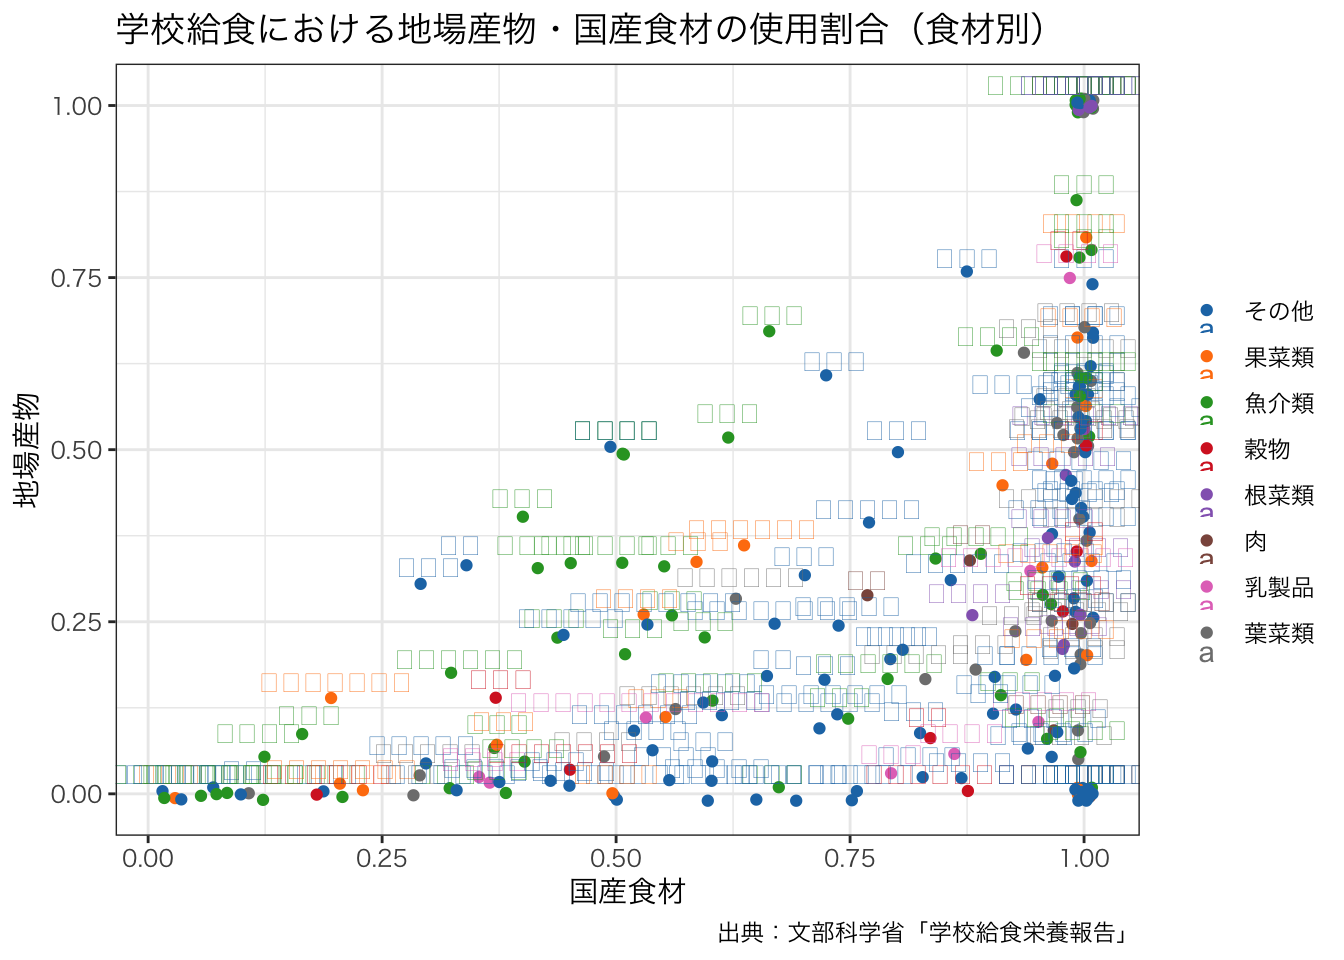
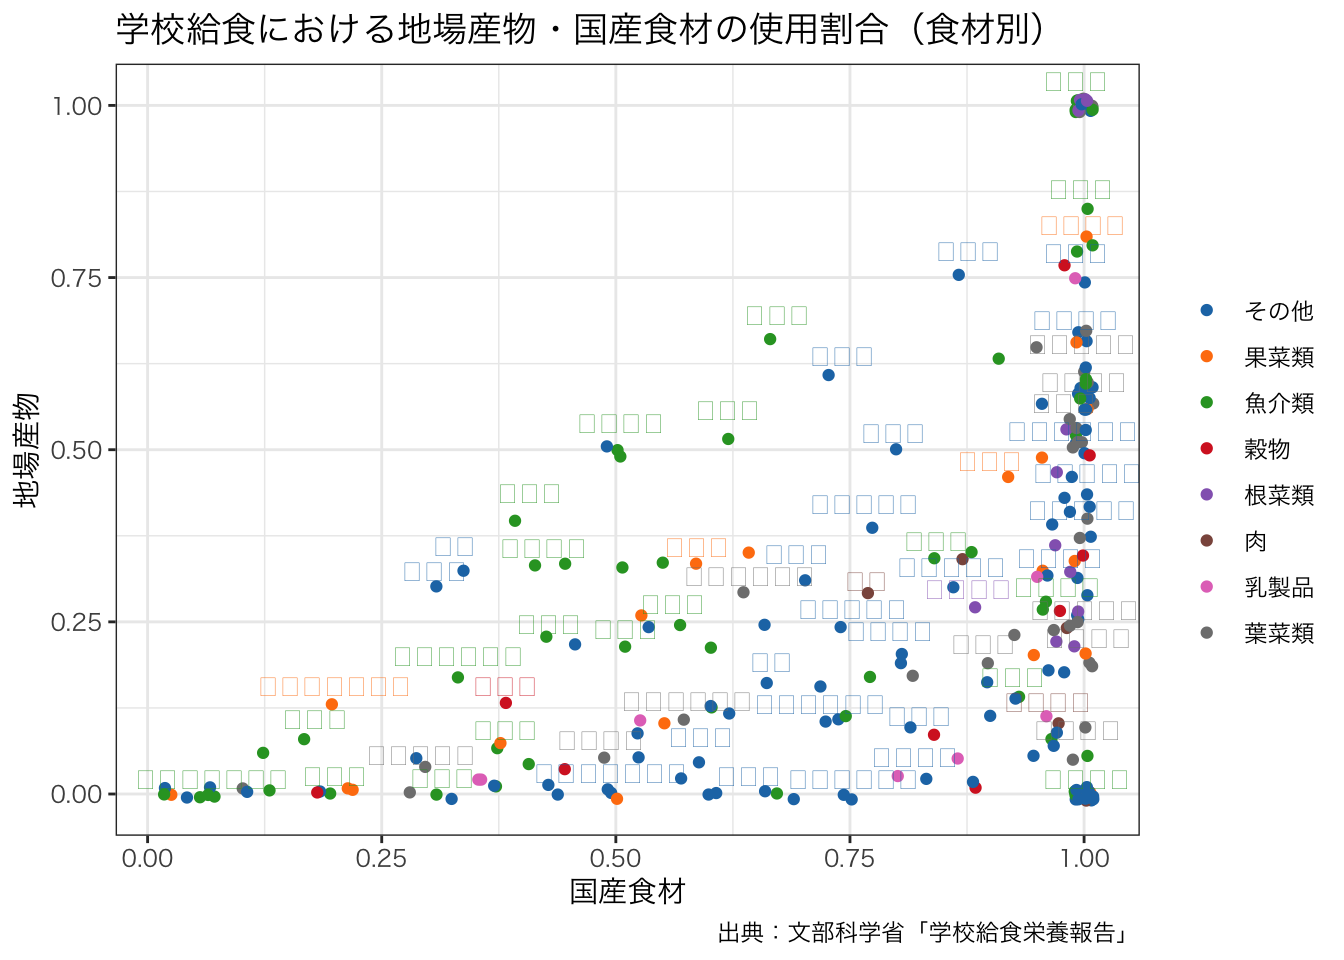
commit

diff --git a/docs/kyushoku.html b/docs/kyushoku.html
@@ -253,7 +253,7 @@ $.names
 <div class="cell">
 <div class="sourceCode cell-code" id="cb5"><pre class="sourceCode r code-with-copy"><code class="sourceCode r"><span id="cb5-1"><a href="#cb5-1" aria-hidden="true" tabindex="-1"></a>g <span class="ot">&lt;-</span> <span class="fu">ggplot</span>(df_wide, <span class="fu">aes</span>(<span class="at">x =</span> 国産食材, <span class="at">y =</span> 地場産物, <span class="at">label =</span> 食材別, <span class="at">group =</span> 分類, <span class="at">colour =</span> 分類)) <span class="sc">+</span></span>
 <span id="cb5-2"><a href="#cb5-2" aria-hidden="true" tabindex="-1"></a>  <span class="fu">geom_point</span>(<span class="at">position =</span> <span class="fu">position_jitter</span>(<span class="at">width =</span> <span class="fl">0.01</span>, <span class="at">height =</span> <span class="fl">0.01</span>)) <span class="sc">+</span></span>
-<span id="cb5-3"><a href="#cb5-3" aria-hidden="true" tabindex="-1"></a>  <span class="fu">geom_text</span>(<span class="at">vjust =</span> <span class="sc">-</span><span class="fl">0.5</span>, <span class="at">hjust =</span> <span class="fl">0.5</span>) <span class="sc">+</span></span>
+<span id="cb5-3"><a href="#cb5-3" aria-hidden="true" tabindex="-1"></a>  <span class="fu">geom_text</span>(<span class="at">vjust =</span> <span class="sc">-</span><span class="fl">0.5</span>, <span class="at">hjust =</span> <span class="fl">0.5</span>, <span class="at">show.legend =</span> <span class="cn">FALSE</span>, <span class="at">position =</span> <span class="fu">position_jitter</span>(<span class="at">width =</span> <span class="fl">0.01</span>, <span class="at">height =</span> <span class="fl">0.01</span>), <span class="at">check_overlap =</span> <span class="cn">TRUE</span>) <span class="sc">+</span></span>
 <span id="cb5-4"><a href="#cb5-4" aria-hidden="true" tabindex="-1"></a>  <span class="fu">labs</span>(</span>
 <span id="cb5-5"><a href="#cb5-5" aria-hidden="true" tabindex="-1"></a>    <span class="at">title =</span> <span class="st">"学校給食における地場産物・国産食材の使用割合（食材別）"</span>,</span>
 <span id="cb5-6"><a href="#cb5-6" aria-hidden="true" tabindex="-1"></a>    <span class="at">color =</span> <span class="st">""</span>,</span>
@@ -310,7 +310,7 @@ $.names
 </div>
 <div class="sourceCode cell-code" id="cb11"><pre class="sourceCode r code-with-copy"><code class="sourceCode r"><span id="cb11-1"><a href="#cb11-1" aria-hidden="true" tabindex="-1"></a>g <span class="ot">&lt;-</span> <span class="fu">ggplot</span>(df_wide <span class="sc">|&gt;</span> <span class="fu">filter</span>(国産食材 <span class="sc">&lt;</span> <span class="fl">0.25</span>), <span class="fu">aes</span>(<span class="at">x =</span> 国産食材, <span class="at">y =</span> 地場産物, <span class="at">label =</span> 食材別, <span class="at">group =</span> 分類, <span class="at">colour =</span> 分類)) <span class="sc">+</span></span>
 <span id="cb11-2"><a href="#cb11-2" aria-hidden="true" tabindex="-1"></a>  <span class="fu">geom_point</span>(<span class="at">position =</span> <span class="fu">position_jitter</span>(<span class="at">width =</span> <span class="fl">0.01</span>, <span class="at">height =</span> <span class="fl">0.01</span>)) <span class="sc">+</span></span>
-<span id="cb11-3"><a href="#cb11-3" aria-hidden="true" tabindex="-1"></a>  <span class="fu">geom_text</span>(<span class="at">vjust =</span> <span class="sc">-</span><span class="fl">0.5</span>, <span class="at">hjust =</span> <span class="fl">0.5</span>) <span class="sc">+</span></span>
+<span id="cb11-3"><a href="#cb11-3" aria-hidden="true" tabindex="-1"></a>  <span class="fu">geom_text</span>(<span class="at">vjust =</span> <span class="sc">-</span><span class="fl">0.5</span>, <span class="at">hjust =</span> <span class="fl">0.5</span>, <span class="at">show.legend =</span> <span class="cn">FALSE</span>, <span class="at">position =</span> <span class="fu">position_jitter</span>(<span class="at">width =</span> <span class="fl">0.01</span>, <span class="at">height =</span> <span class="fl">0.01</span>), <span class="at">check_overlap =</span> <span class="cn">TRUE</span>) <span class="sc">+</span></span>
 <span id="cb11-4"><a href="#cb11-4" aria-hidden="true" tabindex="-1"></a>  <span class="fu">labs</span>(</span>
 <span id="cb11-5"><a href="#cb11-5" aria-hidden="true" tabindex="-1"></a>    <span class="at">title =</span> <span class="st">"学校給食における地場産物・国産食材の使用割合（食材別）"</span>,</span>
 <span id="cb11-6"><a href="#cb11-6" aria-hidden="true" tabindex="-1"></a>    <span class="at">subtitle =</span> <span class="st">"輸入に依存している食材"</span>,</span>
@@ -419,7 +419,7 @@ $.names
 </div>
 <div class="sourceCode cell-code" id="cb17"><pre class="sourceCode r code-with-copy"><code class="sourceCode r"><span id="cb17-1"><a href="#cb17-1" aria-hidden="true" tabindex="-1"></a>g <span class="ot">&lt;-</span> <span class="fu">ggplot</span>(df_wide <span class="sc">|&gt;</span> <span class="fu">filter</span>(国産食材 <span class="sc">&gt;</span> <span class="fl">0.75</span> <span class="sc">&amp;</span> 地場産物<span class="sc">&lt;</span> <span class="fl">0.25</span>), <span class="fu">aes</span>(<span class="at">x =</span> 国産食材, <span class="at">y =</span> 地場産物, <span class="at">label =</span> 食材別, <span class="at">group =</span> 分類, <span class="at">colour =</span> 分類)) <span class="sc">+</span></span>
 <span id="cb17-2"><a href="#cb17-2" aria-hidden="true" tabindex="-1"></a>  <span class="fu">geom_point</span>(<span class="at">position =</span> <span class="fu">position_jitter</span>(<span class="at">width =</span> <span class="fl">0.01</span>, <span class="at">height =</span> <span class="fl">0.01</span>)) <span class="sc">+</span></span>
-<span id="cb17-3"><a href="#cb17-3" aria-hidden="true" tabindex="-1"></a>  <span class="fu">geom_text</span>(<span class="at">vjust =</span> <span class="sc">-</span><span class="fl">0.5</span>, <span class="at">hjust =</span> <span class="fl">0.5</span>, <span class="at">show.legend =</span> <span class="cn">FALSE</span>) <span class="sc">+</span></span>
+<span id="cb17-3"><a href="#cb17-3" aria-hidden="true" tabindex="-1"></a>  <span class="fu">geom_text</span>(<span class="at">vjust =</span> <span class="sc">-</span><span class="fl">0.5</span>, <span class="at">hjust =</span> <span class="fl">0.5</span>, <span class="at">show.legend =</span> <span class="cn">FALSE</span>, <span class="at">position =</span> <span class="fu">position_jitter</span>(<span class="at">width =</span> <span class="fl">0.01</span>, <span class="at">height =</span> <span class="fl">0.01</span>), <span class="at">check_overlap =</span> <span class="cn">TRUE</span>) <span class="sc">+</span></span>
 <span id="cb17-4"><a href="#cb17-4" aria-hidden="true" tabindex="-1"></a>  <span class="fu">labs</span>(</span>
 <span id="cb17-5"><a href="#cb17-5" aria-hidden="true" tabindex="-1"></a>    <span class="at">title =</span> <span class="st">"学校給食における地場産物・国産食材の使用割合（食材別）"</span>,</span>
 <span id="cb17-6"><a href="#cb17-6" aria-hidden="true" tabindex="-1"></a>    <span class="at">subtitle =</span> <span class="st">"国内の特定地域に依存している食材"</span>,</span>
@@ -501,7 +501,7 @@ $.names
 </div>
 <div class="sourceCode cell-code" id="cb23"><pre class="sourceCode r code-with-copy"><code class="sourceCode r"><span id="cb23-1"><a href="#cb23-1" aria-hidden="true" tabindex="-1"></a>g <span class="ot">&lt;-</span> <span class="fu">ggplot</span>(df_wide <span class="sc">|&gt;</span> <span class="fu">filter</span>(地場産物 <span class="sc">&gt;</span> <span class="fl">0.75</span>), <span class="fu">aes</span>(<span class="at">x =</span> 国産食材, <span class="at">y =</span> 地場産物, <span class="at">label =</span> 食材別, <span class="at">group =</span> 分類, <span class="at">colour =</span> 分類)) <span class="sc">+</span></span>
 <span id="cb23-2"><a href="#cb23-2" aria-hidden="true" tabindex="-1"></a>  <span class="fu">geom_point</span>(<span class="at">position =</span> <span class="fu">position_jitter</span>(<span class="at">width =</span> <span class="fl">0.01</span>, <span class="at">height =</span> <span class="fl">0.01</span>)) <span class="sc">+</span></span>
-<span id="cb23-3"><a href="#cb23-3" aria-hidden="true" tabindex="-1"></a>  <span class="fu">geom_text</span>(<span class="at">vjust =</span> <span class="sc">-</span><span class="fl">0.5</span>, <span class="at">hjust =</span> <span class="fl">0.5</span>, <span class="at">show.legend =</span> <span class="cn">FALSE</span>) <span class="sc">+</span></span>
+<span id="cb23-3"><a href="#cb23-3" aria-hidden="true" tabindex="-1"></a>  <span class="fu">geom_text</span>(<span class="at">vjust =</span> <span class="sc">-</span><span class="fl">0.5</span>, <span class="at">hjust =</span> <span class="fl">0.5</span>, <span class="at">show.legend =</span> <span class="cn">FALSE</span>, <span class="at">position =</span> <span class="fu">position_jitter</span>(<span class="at">width =</span> <span class="fl">0.01</span>, <span class="at">height =</span> <span class="fl">0.01</span>), <span class="at">check_overlap =</span> <span class="cn">TRUE</span>) <span class="sc">+</span></span>
 <span id="cb23-4"><a href="#cb23-4" aria-hidden="true" tabindex="-1"></a>  <span class="fu">labs</span>(</span>
 <span id="cb23-5"><a href="#cb23-5" aria-hidden="true" tabindex="-1"></a>    <span class="at">title =</span> <span class="st">"学校給食における地場産物・国産食材の使用割合（食材別）"</span>,</span>
 <span id="cb23-6"><a href="#cb23-6" aria-hidden="true" tabindex="-1"></a>    <span class="at">subtitle =</span> <span class="st">"地産地消が進んでいる食材"</span>,</span>
